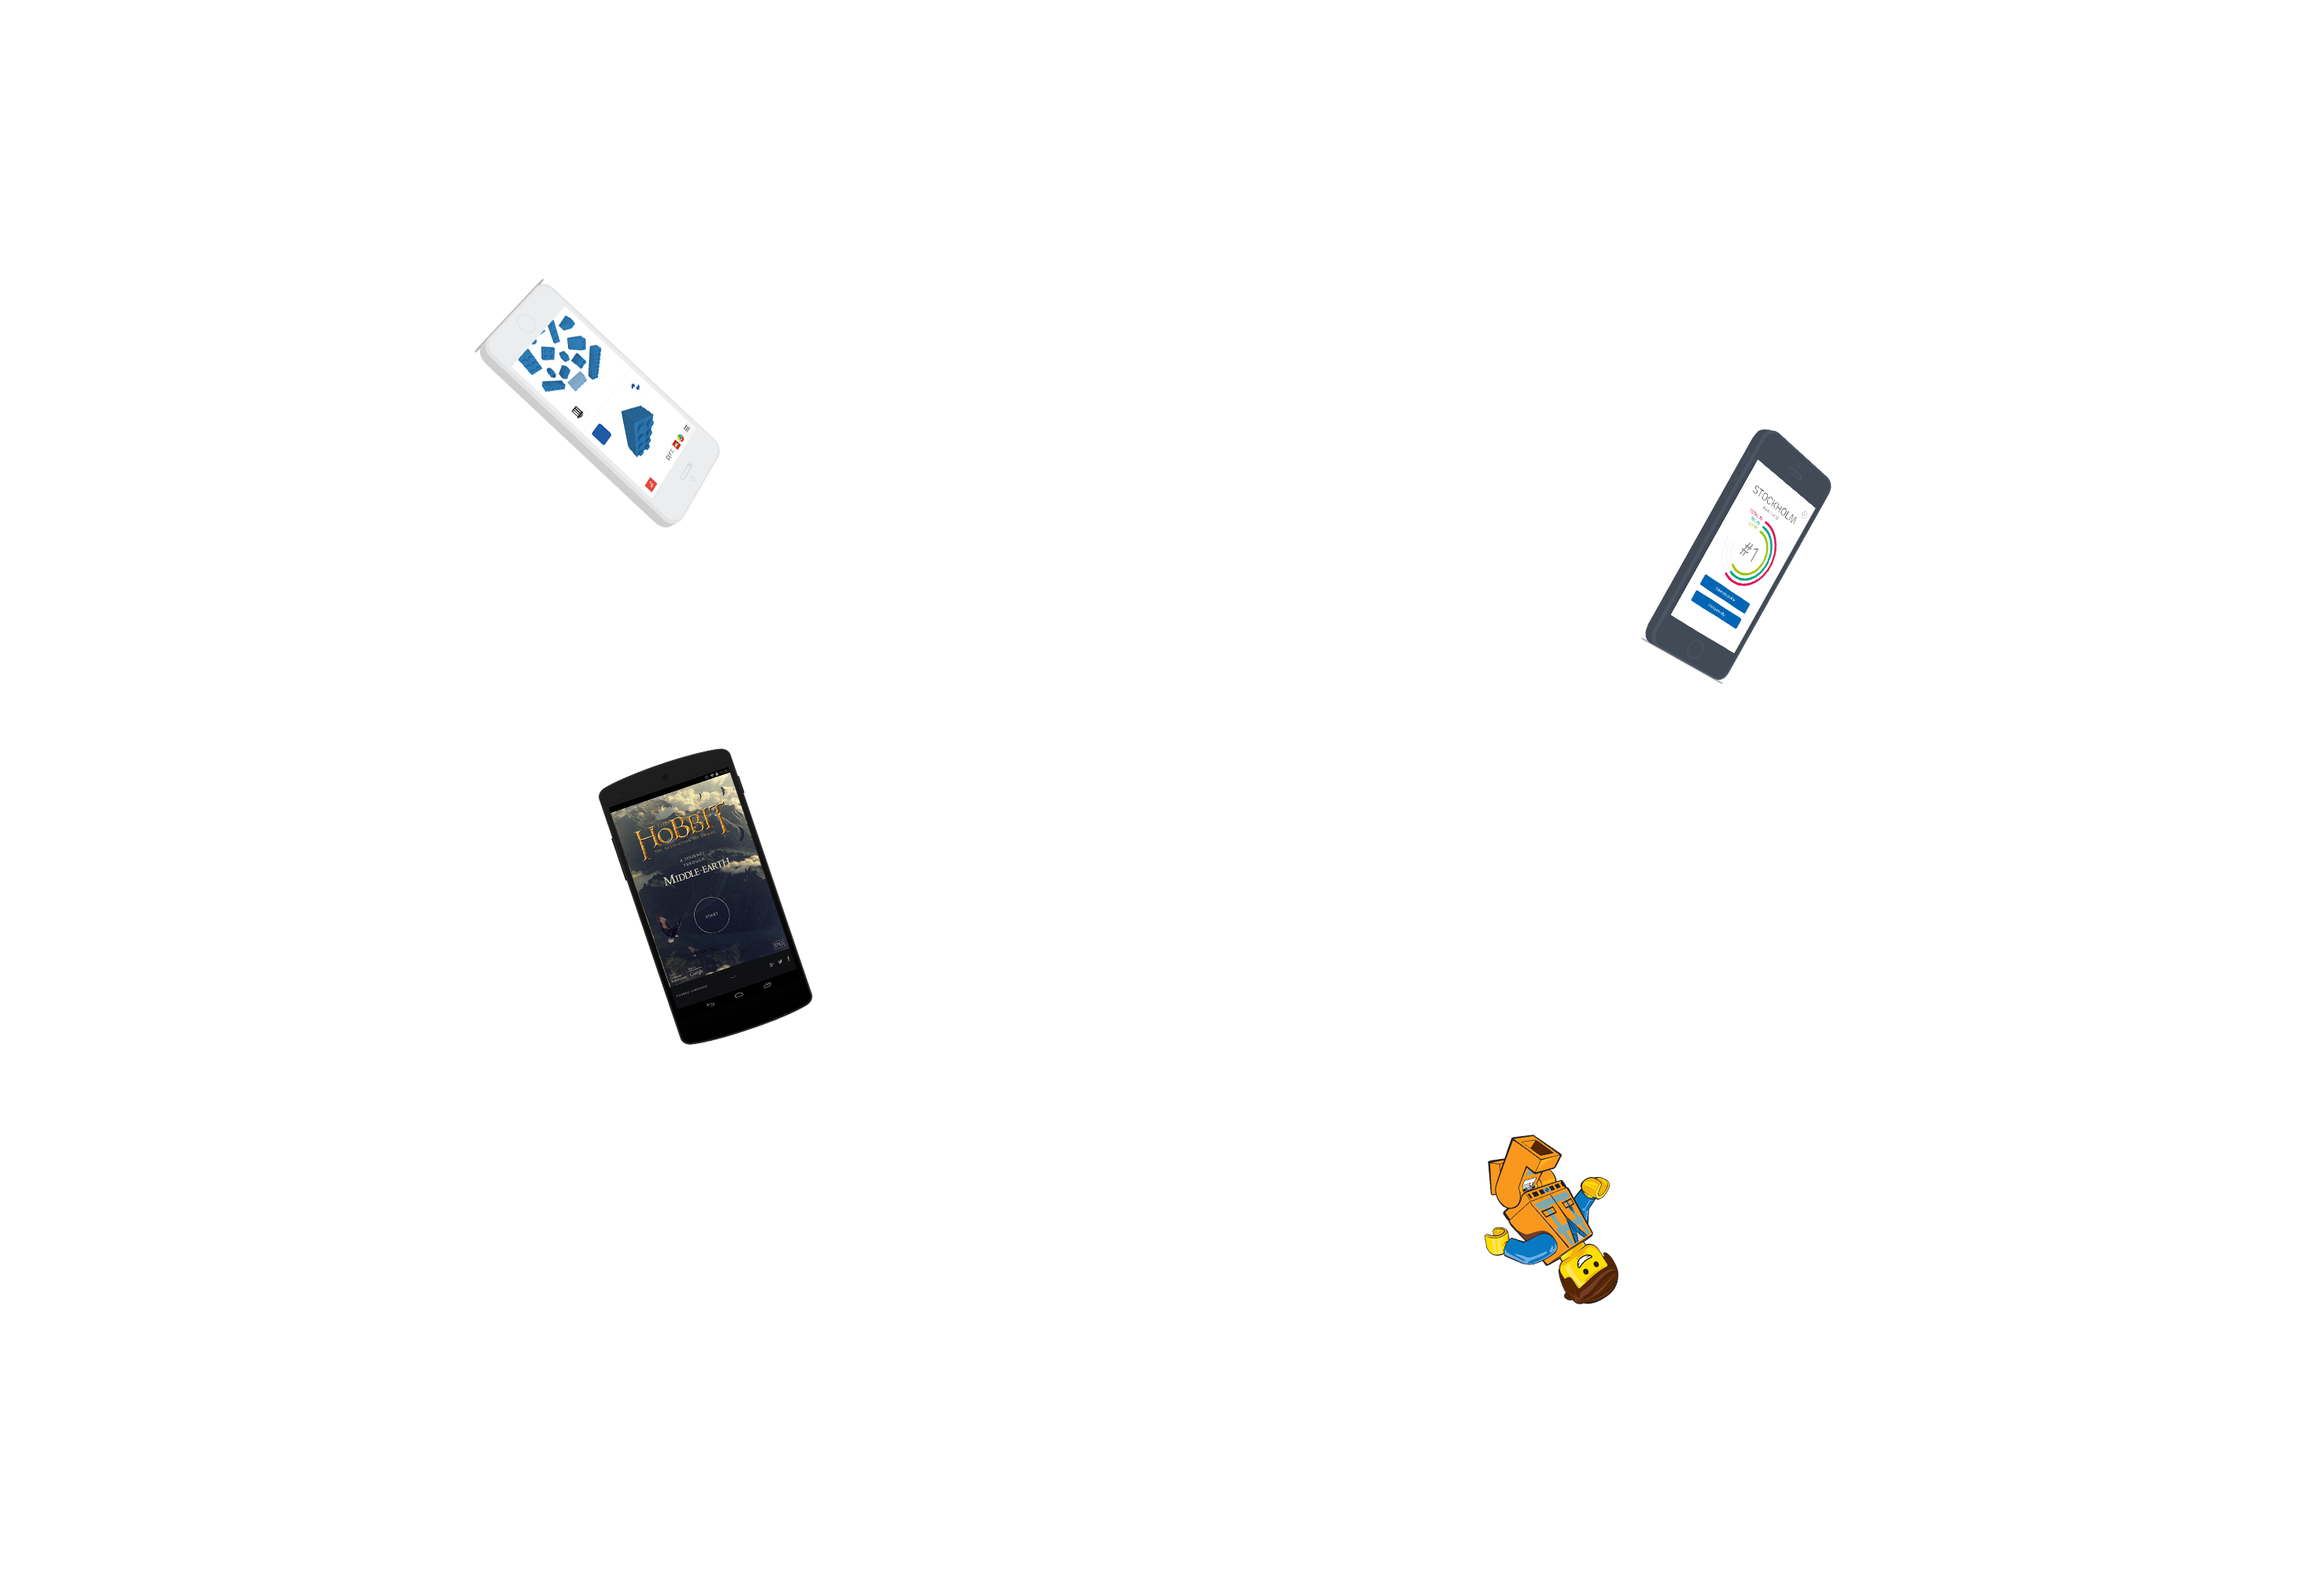
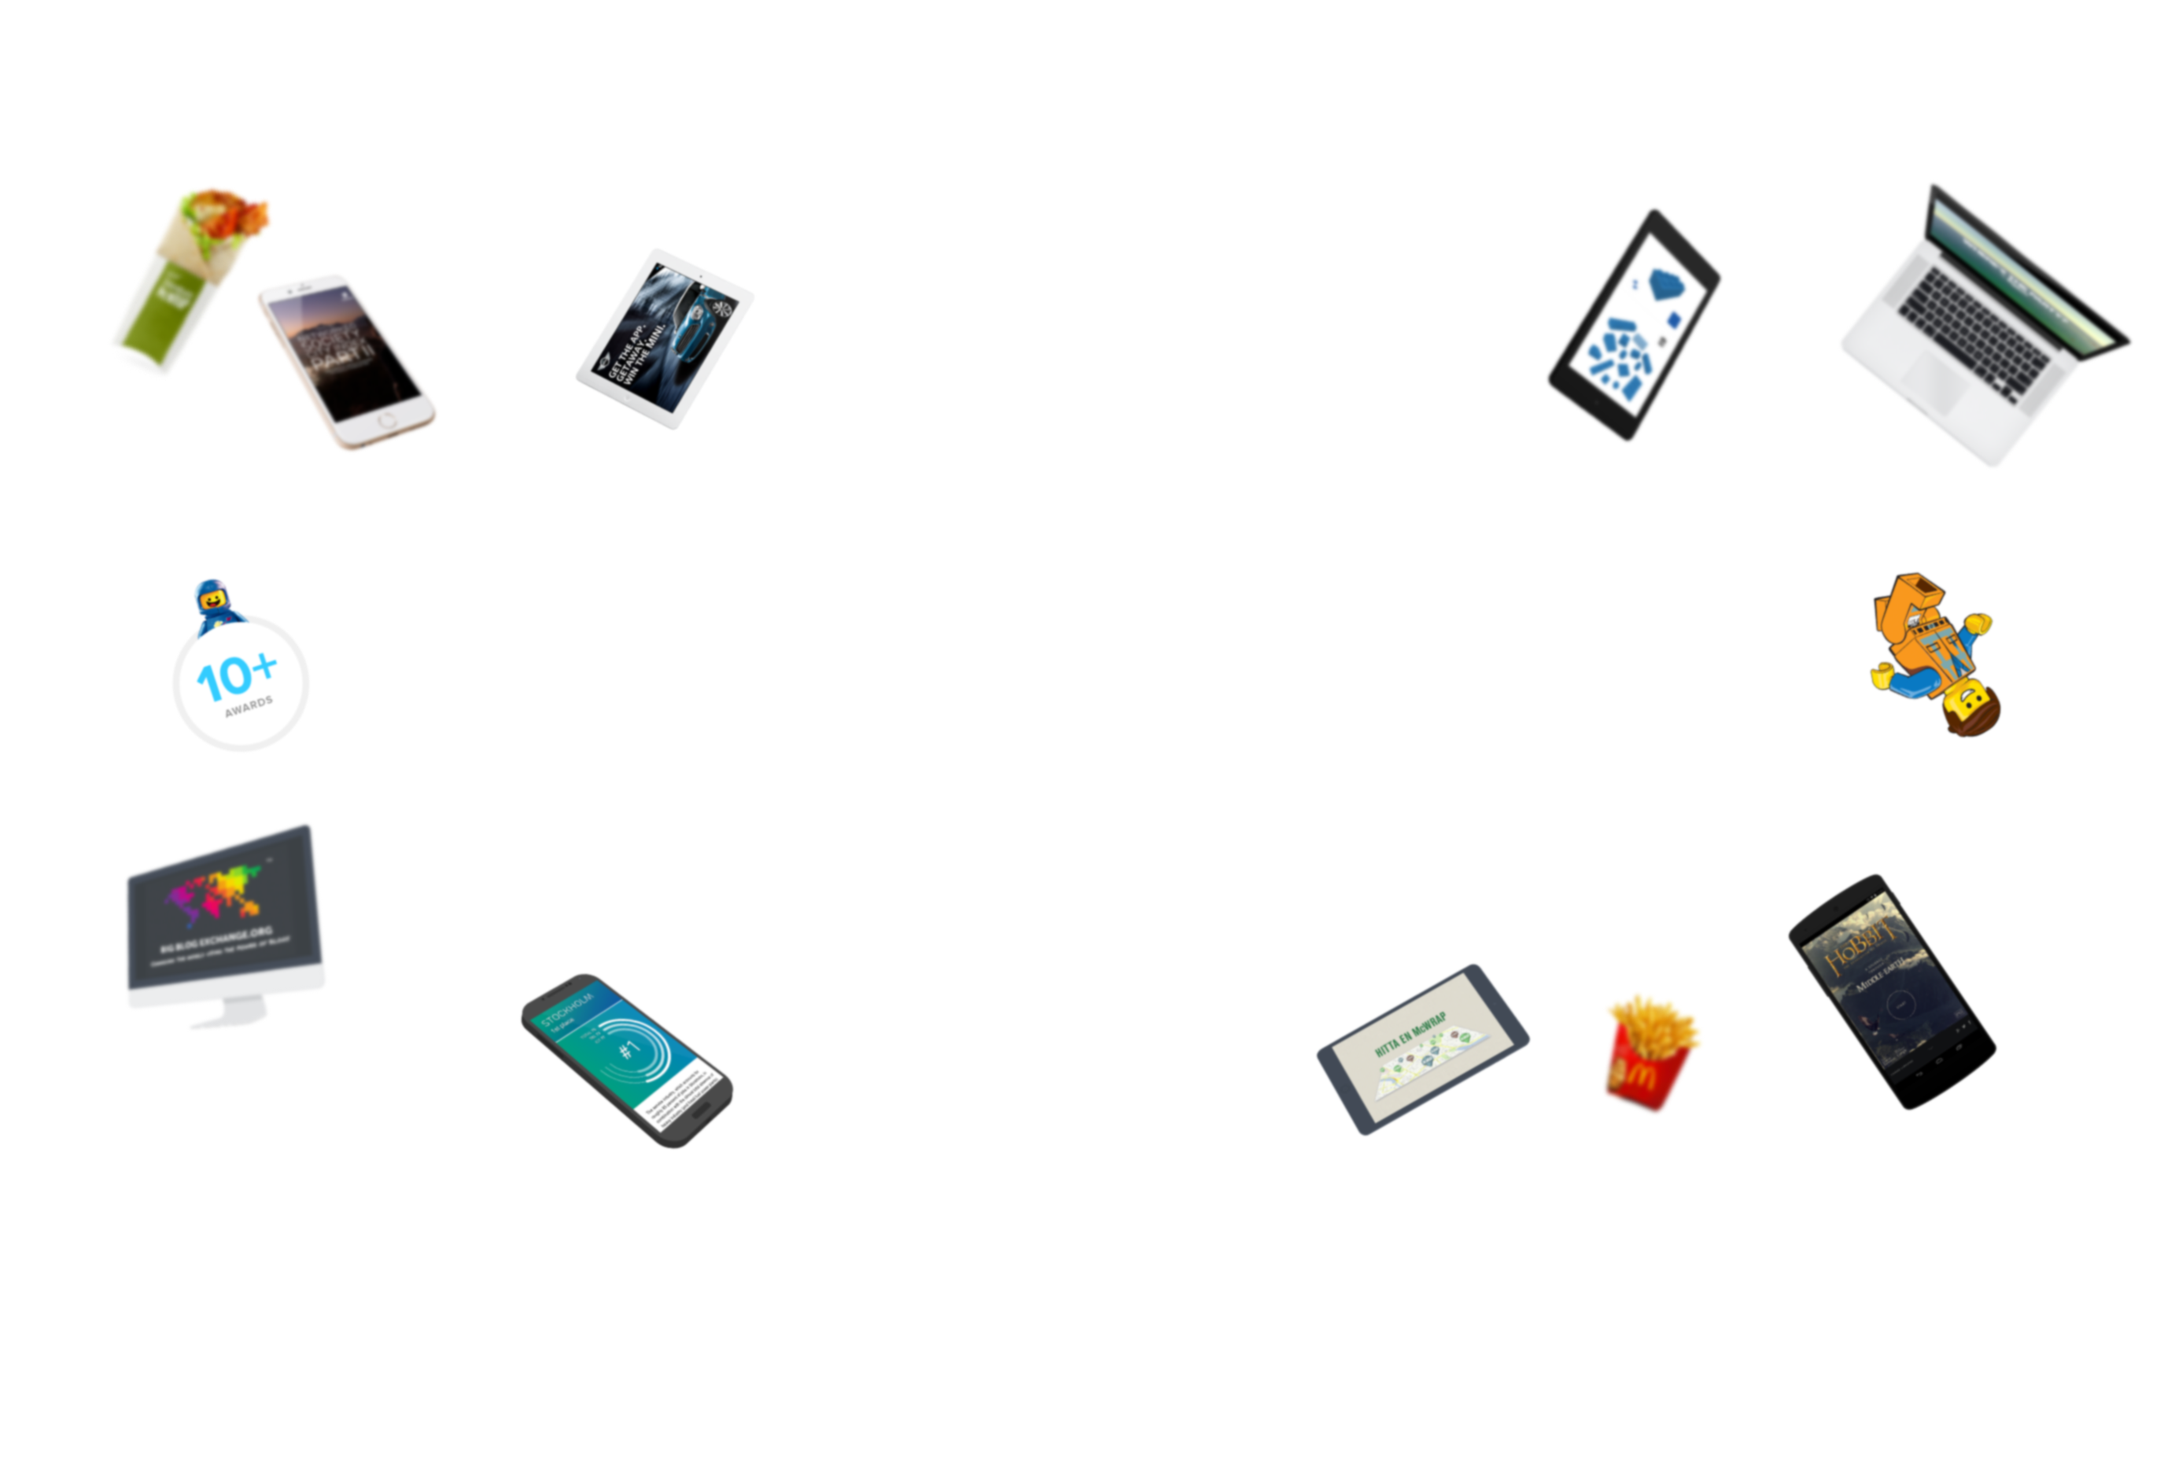
New assets for web production on start page

diff --git a/sass/sections/_start-webprod-parallax.scss b/sass/sections/_start-webprod-parallax.scss
@@ -75,30 +75,28 @@ $samsung-rotate: 14deg;
         }
 
         &--chrome {
-            // height: 800px;
-            // width: 419px;
+            // height: 600px;
+            // width: 889px;
 
-            width: 210px;
-            height: 400px;
+            width: 270px;
+            height: 403px;
 
             @media only screen and (max-width: 1700px) {
-                width: 140px;
-                height: 267px;
+                width: 150px;
+                height: 222px;
             }
             top: 30%;
             right: 15%;
             @include transform(rotate($chrome-rotate));
-            background-image: url(/img/start/webprod/chrome-start.png);
+            background-image: url(/img/start/webprod/chrome2.png);
             background-size: cover;
             &:hover {
                 @include animation(pulsateChrome 1800ms $ease-in-out-sine);
             }
         }
         &--samsung {
-            width: 555px;
-            height: 900px;
-            width: 234px;
-            height: 379px;
+            width: 205px;
+            height: 400px;
 
             @media only screen and (max-width: 1700px) {
                 width: 160px;
@@ -106,12 +104,12 @@ $samsung-rotate: 14deg;
             }
 
             top: 24%;
-            left: 15%;
+            left: 17%;
             @include transform(rotate($samsung-rotate));
             &:hover {
                 @include animation(pulsateSamsung 1800ms $ease-in-out-sine);
             }
-            background-image: url(/img/start/webprod/samsung-start.png);
+            background-image: url(/img/start/webprod/sj.png);
             background-size: cover;
         }
 
